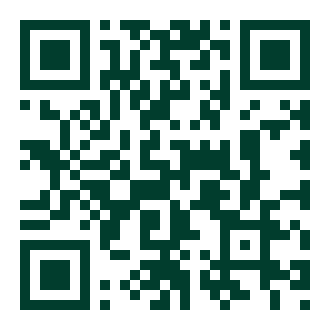
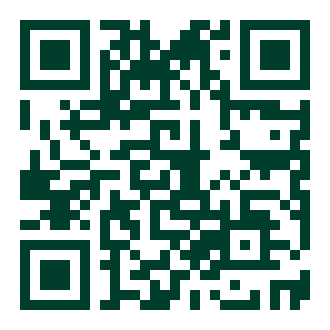
LINE 改為官方帳號 @phoebecare

diff --git a/docs/index.html b/docs/index.html
@@ -43,7 +43,7 @@
       <h1>從飲食開始，<br>讓健康成為生活的一部分</h1>
       <p class="lead">非比營養諮詢中心是新竹的營養師團隊。我們陪長照家庭、照護機構、社區與企業，把營養落實到每天的餐桌上。</p>
       <div class="actions">
-        <a class="btn btn-line" href="https://line.me/R/ti/p/@480orlug">加 LINE 預約諮詢</a>
+        <a class="btn btn-line" href="https://line.me/R/ti/p/@phoebecare">加 LINE 預約諮詢</a>
         <a class="btn btn-ghost" href="services.html">看服務內容</a>
       </div>
     </div>
@@ -133,7 +133,7 @@
 <section class="cta-band">
   <div class="wrap cta-row">
     <p>吃的問題，先傳 LINE 問問看。</p>
-    <a class="btn btn-light" href="https://line.me/R/ti/p/@480orlug">加 LINE 好友</a>
+    <a class="btn btn-light" href="https://line.me/R/ti/p/@phoebecare">加 LINE 好友</a>
   </div>
 </section>
 
@@ -147,7 +147,7 @@
     <div class="foot-contact">
       <h2>聯絡我們</h2>
       <dl>
-        <dt>LINE</dt><dd><a href="https://line.me/R/ti/p/@480orlug">@480orlug</a></dd>
+        <dt>LINE</dt><dd><a href="https://line.me/R/ti/p/@phoebecare">@phoebecare</a></dd>
         <dt>電話</dt><dd><a href="tel:035555878">03-555-5878</a></dd>
         <dt>信箱</dt><dd><a href="mailto:phoebecare.tw@gmail.com">phoebecare.tw@gmail.com</a></dd>
         <dt>竹北辦公室</dt><dd><a href="https://www.google.com/maps/search/?api=1&amp;query=新竹縣竹北市國興街26巷15號">新竹縣竹北市國興街26巷15號</a></dd>
@@ -156,7 +156,7 @@
       <p><a href="https://www.facebook.com/profile.php?id=100086501402852">非比營養諮詢中心臉書粉絲專頁</a></p>
     </div>
     <div class="foot-line">
-      <img src="assets/line-qr.png" alt="LINE 好友 QR code，ID @480orlug" width="132" height="132">
+      <img src="assets/line-qr.png" alt="LINE 好友 QR code，ID @phoebecare" width="132" height="132">
       <p>手機掃描，加入 LINE 好友</p>
     </div>
   </div>

diff --git a/docs/contact.html b/docs/contact.html
@@ -48,9 +48,9 @@
   <div class="wrap contact-grid">
     <div class="contact-line">
       <h2>LINE 預約</h2>
-      <img src="assets/line-qr.png" alt="LINE 好友 QR code，ID @480orlug" width="200" height="200">
-      <p>LINE ID：@480orlug</p>
-      <a class="btn btn-line" href="https://line.me/R/ti/p/@480orlug">用手機直接加好友</a>
+      <img src="assets/line-qr.png" alt="LINE 好友 QR code，ID @phoebecare" width="200" height="200">
+      <p>LINE ID：@phoebecare</p>
+      <a class="btn btn-line" href="https://line.me/R/ti/p/@phoebecare">用手機直接加好友</a>
     </div>
     <div class="contact-info">
       <h2>其他聯絡方式</h2>
@@ -80,7 +80,7 @@
     <div class="foot-contact">
       <h2>聯絡我們</h2>
       <dl>
-        <dt>LINE</dt><dd><a href="https://line.me/R/ti/p/@480orlug">@480orlug</a></dd>
+        <dt>LINE</dt><dd><a href="https://line.me/R/ti/p/@phoebecare">@phoebecare</a></dd>
         <dt>電話</dt><dd><a href="tel:035555878">03-555-5878</a></dd>
         <dt>信箱</dt><dd><a href="mailto:phoebecare.tw@gmail.com">phoebecare.tw@gmail.com</a></dd>
         <dt>竹北辦公室</dt><dd><a href="https://www.google.com/maps/search/?api=1&amp;query=新竹縣竹北市國興街26巷15號">新竹縣竹北市國興街26巷15號</a></dd>
@@ -89,7 +89,7 @@
       <p><a href="https://www.facebook.com/profile.php?id=100086501402852">非比營養諮詢中心臉書粉絲專頁</a></p>
     </div>
     <div class="foot-line">
-      <img src="assets/line-qr.png" alt="LINE 好友 QR code，ID @480orlug" width="132" height="132">
+      <img src="assets/line-qr.png" alt="LINE 好友 QR code，ID @phoebecare" width="132" height="132">
       <p>手機掃描，加入 LINE 好友</p>
     </div>
   </div>

diff --git a/docs/services.html b/docs/services.html
@@ -87,7 +87,7 @@
 <section class="cta-band">
   <div class="wrap cta-row">
     <p>不確定適合哪一項？傳 LINE 問我們。</p>
-    <a class="btn btn-light" href="https://line.me/R/ti/p/@480orlug">加 LINE 好友</a>
+    <a class="btn btn-light" href="https://line.me/R/ti/p/@phoebecare">加 LINE 好友</a>
   </div>
 </section>
 
@@ -101,7 +101,7 @@
     <div class="foot-contact">
       <h2>聯絡我們</h2>
       <dl>
-        <dt>LINE</dt><dd><a href="https://line.me/R/ti/p/@480orlug">@480orlug</a></dd>
+        <dt>LINE</dt><dd><a href="https://line.me/R/ti/p/@phoebecare">@phoebecare</a></dd>
         <dt>電話</dt><dd><a href="tel:035555878">03-555-5878</a></dd>
         <dt>信箱</dt><dd><a href="mailto:phoebecare.tw@gmail.com">phoebecare.tw@gmail.com</a></dd>
         <dt>竹北辦公室</dt><dd><a href="https://www.google.com/maps/search/?api=1&amp;query=新竹縣竹北市國興街26巷15號">新竹縣竹北市國興街26巷15號</a></dd>
@@ -110,7 +110,7 @@
       <p><a href="https://www.facebook.com/profile.php?id=100086501402852">非比營養諮詢中心臉書粉絲專頁</a></p>
     </div>
     <div class="foot-line">
-      <img src="assets/line-qr.png" alt="LINE 好友 QR code，ID @480orlug" width="132" height="132">
+      <img src="assets/line-qr.png" alt="LINE 好友 QR code，ID @phoebecare" width="132" height="132">
       <p>手機掃描，加入 LINE 好友</p>
     </div>
   </div>

diff --git a/docs/process.html b/docs/process.html
@@ -70,7 +70,7 @@
 <section class="cta-band">
   <div class="wrap cta-row">
     <p>第一步很簡單，先加 LINE。</p>
-    <a class="btn btn-light" href="https://line.me/R/ti/p/@480orlug">加 LINE 好友</a>
+    <a class="btn btn-light" href="https://line.me/R/ti/p/@phoebecare">加 LINE 好友</a>
   </div>
 </section>
 
@@ -84,7 +84,7 @@
     <div class="foot-contact">
       <h2>聯絡我們</h2>
       <dl>
-        <dt>LINE</dt><dd><a href="https://line.me/R/ti/p/@480orlug">@480orlug</a></dd>
+        <dt>LINE</dt><dd><a href="https://line.me/R/ti/p/@phoebecare">@phoebecare</a></dd>
         <dt>電話</dt><dd><a href="tel:035555878">03-555-5878</a></dd>
         <dt>信箱</dt><dd><a href="mailto:phoebecare.tw@gmail.com">phoebecare.tw@gmail.com</a></dd>
         <dt>竹北辦公室</dt><dd><a href="https://www.google.com/maps/search/?api=1&amp;query=新竹縣竹北市國興街26巷15號">新竹縣竹北市國興街26巷15號</a></dd>
@@ -93,7 +93,7 @@
       <p><a href="https://www.facebook.com/profile.php?id=100086501402852">非比營養諮詢中心臉書粉絲專頁</a></p>
     </div>
     <div class="foot-line">
-      <img src="assets/line-qr.png" alt="LINE 好友 QR code，ID @480orlug" width="132" height="132">
+      <img src="assets/line-qr.png" alt="LINE 好友 QR code，ID @phoebecare" width="132" height="132">
       <p>手機掃描，加入 LINE 好友</p>
     </div>
   </div>

diff --git a/docs/cases.html b/docs/cases.html
@@ -110,7 +110,7 @@
     <div class="foot-contact">
       <h2>聯絡我們</h2>
       <dl>
-        <dt>LINE</dt><dd><a href="https://line.me/R/ti/p/@480orlug">@480orlug</a></dd>
+        <dt>LINE</dt><dd><a href="https://line.me/R/ti/p/@phoebecare">@phoebecare</a></dd>
         <dt>電話</dt><dd><a href="tel:035555878">03-555-5878</a></dd>
         <dt>信箱</dt><dd><a href="mailto:phoebecare.tw@gmail.com">phoebecare.tw@gmail.com</a></dd>
         <dt>竹北辦公室</dt><dd><a href="https://www.google.com/maps/search/?api=1&amp;query=新竹縣竹北市國興街26巷15號">新竹縣竹北市國興街26巷15號</a></dd>
@@ -119,7 +119,7 @@
       <p><a href="https://www.facebook.com/profile.php?id=100086501402852">非比營養諮詢中心臉書粉絲專頁</a></p>
     </div>
     <div class="foot-line">
-      <img src="assets/line-qr.png" alt="LINE 好友 QR code，ID @480orlug" width="132" height="132">
+      <img src="assets/line-qr.png" alt="LINE 好友 QR code，ID @phoebecare" width="132" height="132">
       <p>手機掃描，加入 LINE 好友</p>
     </div>
   </div>

diff --git a/docs/team.html b/docs/team.html
@@ -133,7 +133,7 @@
     <div class="foot-contact">
       <h2>聯絡我們</h2>
       <dl>
-        <dt>LINE</dt><dd><a href="https://line.me/R/ti/p/@480orlug">@480orlug</a></dd>
+        <dt>LINE</dt><dd><a href="https://line.me/R/ti/p/@phoebecare">@phoebecare</a></dd>
         <dt>電話</dt><dd><a href="tel:035555878">03-555-5878</a></dd>
         <dt>信箱</dt><dd><a href="mailto:phoebecare.tw@gmail.com">phoebecare.tw@gmail.com</a></dd>
         <dt>竹北辦公室</dt><dd><a href="https://www.google.com/maps/search/?api=1&amp;query=新竹縣竹北市國興街26巷15號">新竹縣竹北市國興街26巷15號</a></dd>
@@ -142,7 +142,7 @@
       <p><a href="https://www.facebook.com/profile.php?id=100086501402852">非比營養諮詢中心臉書粉絲專頁</a></p>
     </div>
     <div class="foot-line">
-      <img src="assets/line-qr.png" alt="LINE 好友 QR code，ID @480orlug" width="132" height="132">
+      <img src="assets/line-qr.png" alt="LINE 好友 QR code，ID @phoebecare" width="132" height="132">
       <p>手機掃描，加入 LINE 好友</p>
     </div>
   </div>

diff --git a/docs/about.html b/docs/about.html
@@ -91,7 +91,7 @@
     <div class="foot-contact">
       <h2>聯絡我們</h2>
       <dl>
-        <dt>LINE</dt><dd><a href="https://line.me/R/ti/p/@480orlug">@480orlug</a></dd>
+        <dt>LINE</dt><dd><a href="https://line.me/R/ti/p/@phoebecare">@phoebecare</a></dd>
         <dt>電話</dt><dd><a href="tel:035555878">03-555-5878</a></dd>
         <dt>信箱</dt><dd><a href="mailto:phoebecare.tw@gmail.com">phoebecare.tw@gmail.com</a></dd>
         <dt>竹北辦公室</dt><dd><a href="https://www.google.com/maps/search/?api=1&amp;query=新竹縣竹北市國興街26巷15號">新竹縣竹北市國興街26巷15號</a></dd>
@@ -100,7 +100,7 @@
       <p><a href="https://www.facebook.com/profile.php?id=100086501402852">非比營養諮詢中心臉書粉絲專頁</a></p>
     </div>
     <div class="foot-line">
-      <img src="assets/line-qr.png" alt="LINE 好友 QR code，ID @480orlug" width="132" height="132">
+      <img src="assets/line-qr.png" alt="LINE 好友 QR code，ID @phoebecare" width="132" height="132">
       <p>手機掃描，加入 LINE 好友</p>
     </div>
   </div>

diff --git a/src/layout.html b/src/layout.html
@@ -42,7 +42,7 @@
     <div class="foot-contact">
       <h2>聯絡我們</h2>
       <dl>
-        <dt>LINE</dt><dd><a href="{{line_url}}">@480orlug</a></dd>
+        <dt>LINE</dt><dd><a href="{{line_url}}">@phoebecare</a></dd>
         <dt>電話</dt><dd><a href="tel:035555878">03-555-5878</a></dd>
         <dt>信箱</dt><dd><a href="mailto:phoebecare.tw@gmail.com">phoebecare.tw@gmail.com</a></dd>
         <dt>竹北辦公室</dt><dd><a href="https://www.google.com/maps/search/?api=1&amp;query=新竹縣竹北市國興街26巷15號">新竹縣竹北市國興街26巷15號</a></dd>
@@ -51,7 +51,7 @@
       <p><a href="{{fb_url}}">非比營養諮詢中心臉書粉絲專頁</a></p>
     </div>
     <div class="foot-line">
-      <img src="assets/line-qr.png" alt="LINE 好友 QR code，ID @480orlug" width="132" height="132">
+      <img src="assets/line-qr.png" alt="LINE 好友 QR code，ID @phoebecare" width="132" height="132">
       <p>手機掃描，加入 LINE 好友</p>
     </div>
   </div>

diff --git a/src/pages/contact.html b/src/pages/contact.html
@@ -9,8 +9,8 @@
   <div class="wrap contact-grid">
     <div class="contact-line">
       <h2>LINE 預約</h2>
-      <img src="assets/line-qr.png" alt="LINE 好友 QR code，ID @480orlug" width="200" height="200">
-      <p>LINE ID：@480orlug</p>
+      <img src="assets/line-qr.png" alt="LINE 好友 QR code，ID @phoebecare" width="200" height="200">
+      <p>LINE ID：@phoebecare</p>
       <a class="btn btn-line" href="{{line_url}}">用手機直接加好友</a>
     </div>
     <div class="contact-info">

diff --git a/build.py b/build.py
@@ -13,7 +13,7 @@ ROOT = Path(__file__).parent
 SRC = ROOT / "src"
 OUT = ROOT / "docs"
 
-LINE_URL = "https://line.me/R/ti/p/@480orlug"
+LINE_URL = "https://line.me/R/ti/p/@phoebecare"
 FB_URL = "https://www.facebook.com/profile.php?id=100086501402852"
 
 # slug, 選單名稱, 頁面標題, 頁面描述（搜尋結果顯示用）
